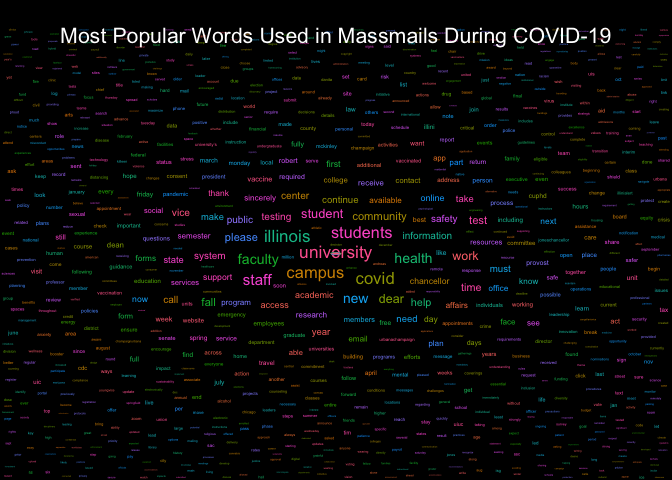
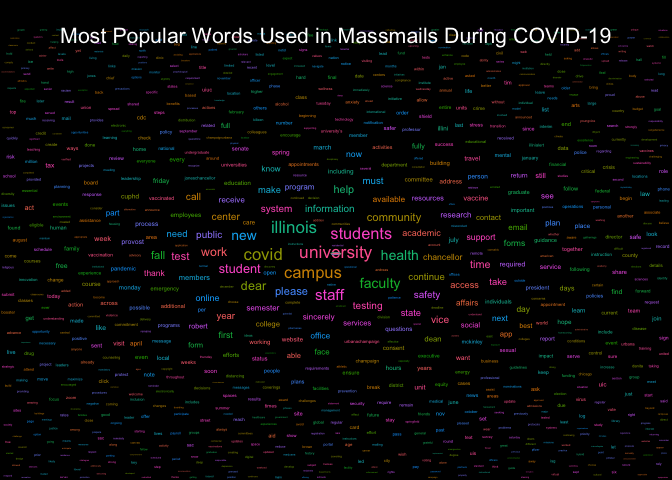
Re-build README.Rmd and Graphs

Changed region(s): [[0.0, 0.0625, 1.0, 1.0], [0.5312, 0.0625, 0.5625, 0.0938]]

diff --git a/README.md b/README.md
@@ -17,7 +17,7 @@ The archive may be viewed here:
 
 <https://massmail.illinois.edu/massmailArchive>
 
-Data has **797** observations and **7** variables:
+Data has **798** observations and **7** variables:
 
 - `datetime`: Date and time when the email was sent in the form of
   `YYYY-MM-DD HMS` with either CDT or CST.
@@ -210,10 +210,10 @@ head(most_popular_words, 10) %>%
 
 | word       | freq |
 |:-----------|-----:|
-| university | 2061 |
+| university | 2067 |
 | students   | 1749 |
 | campus     | 1561 |
-| illinois   | 1381 |
+| illinois   | 1382 |
 | covid      | 1070 |
 | faculty    | 1020 |
 | health     |  965 |
